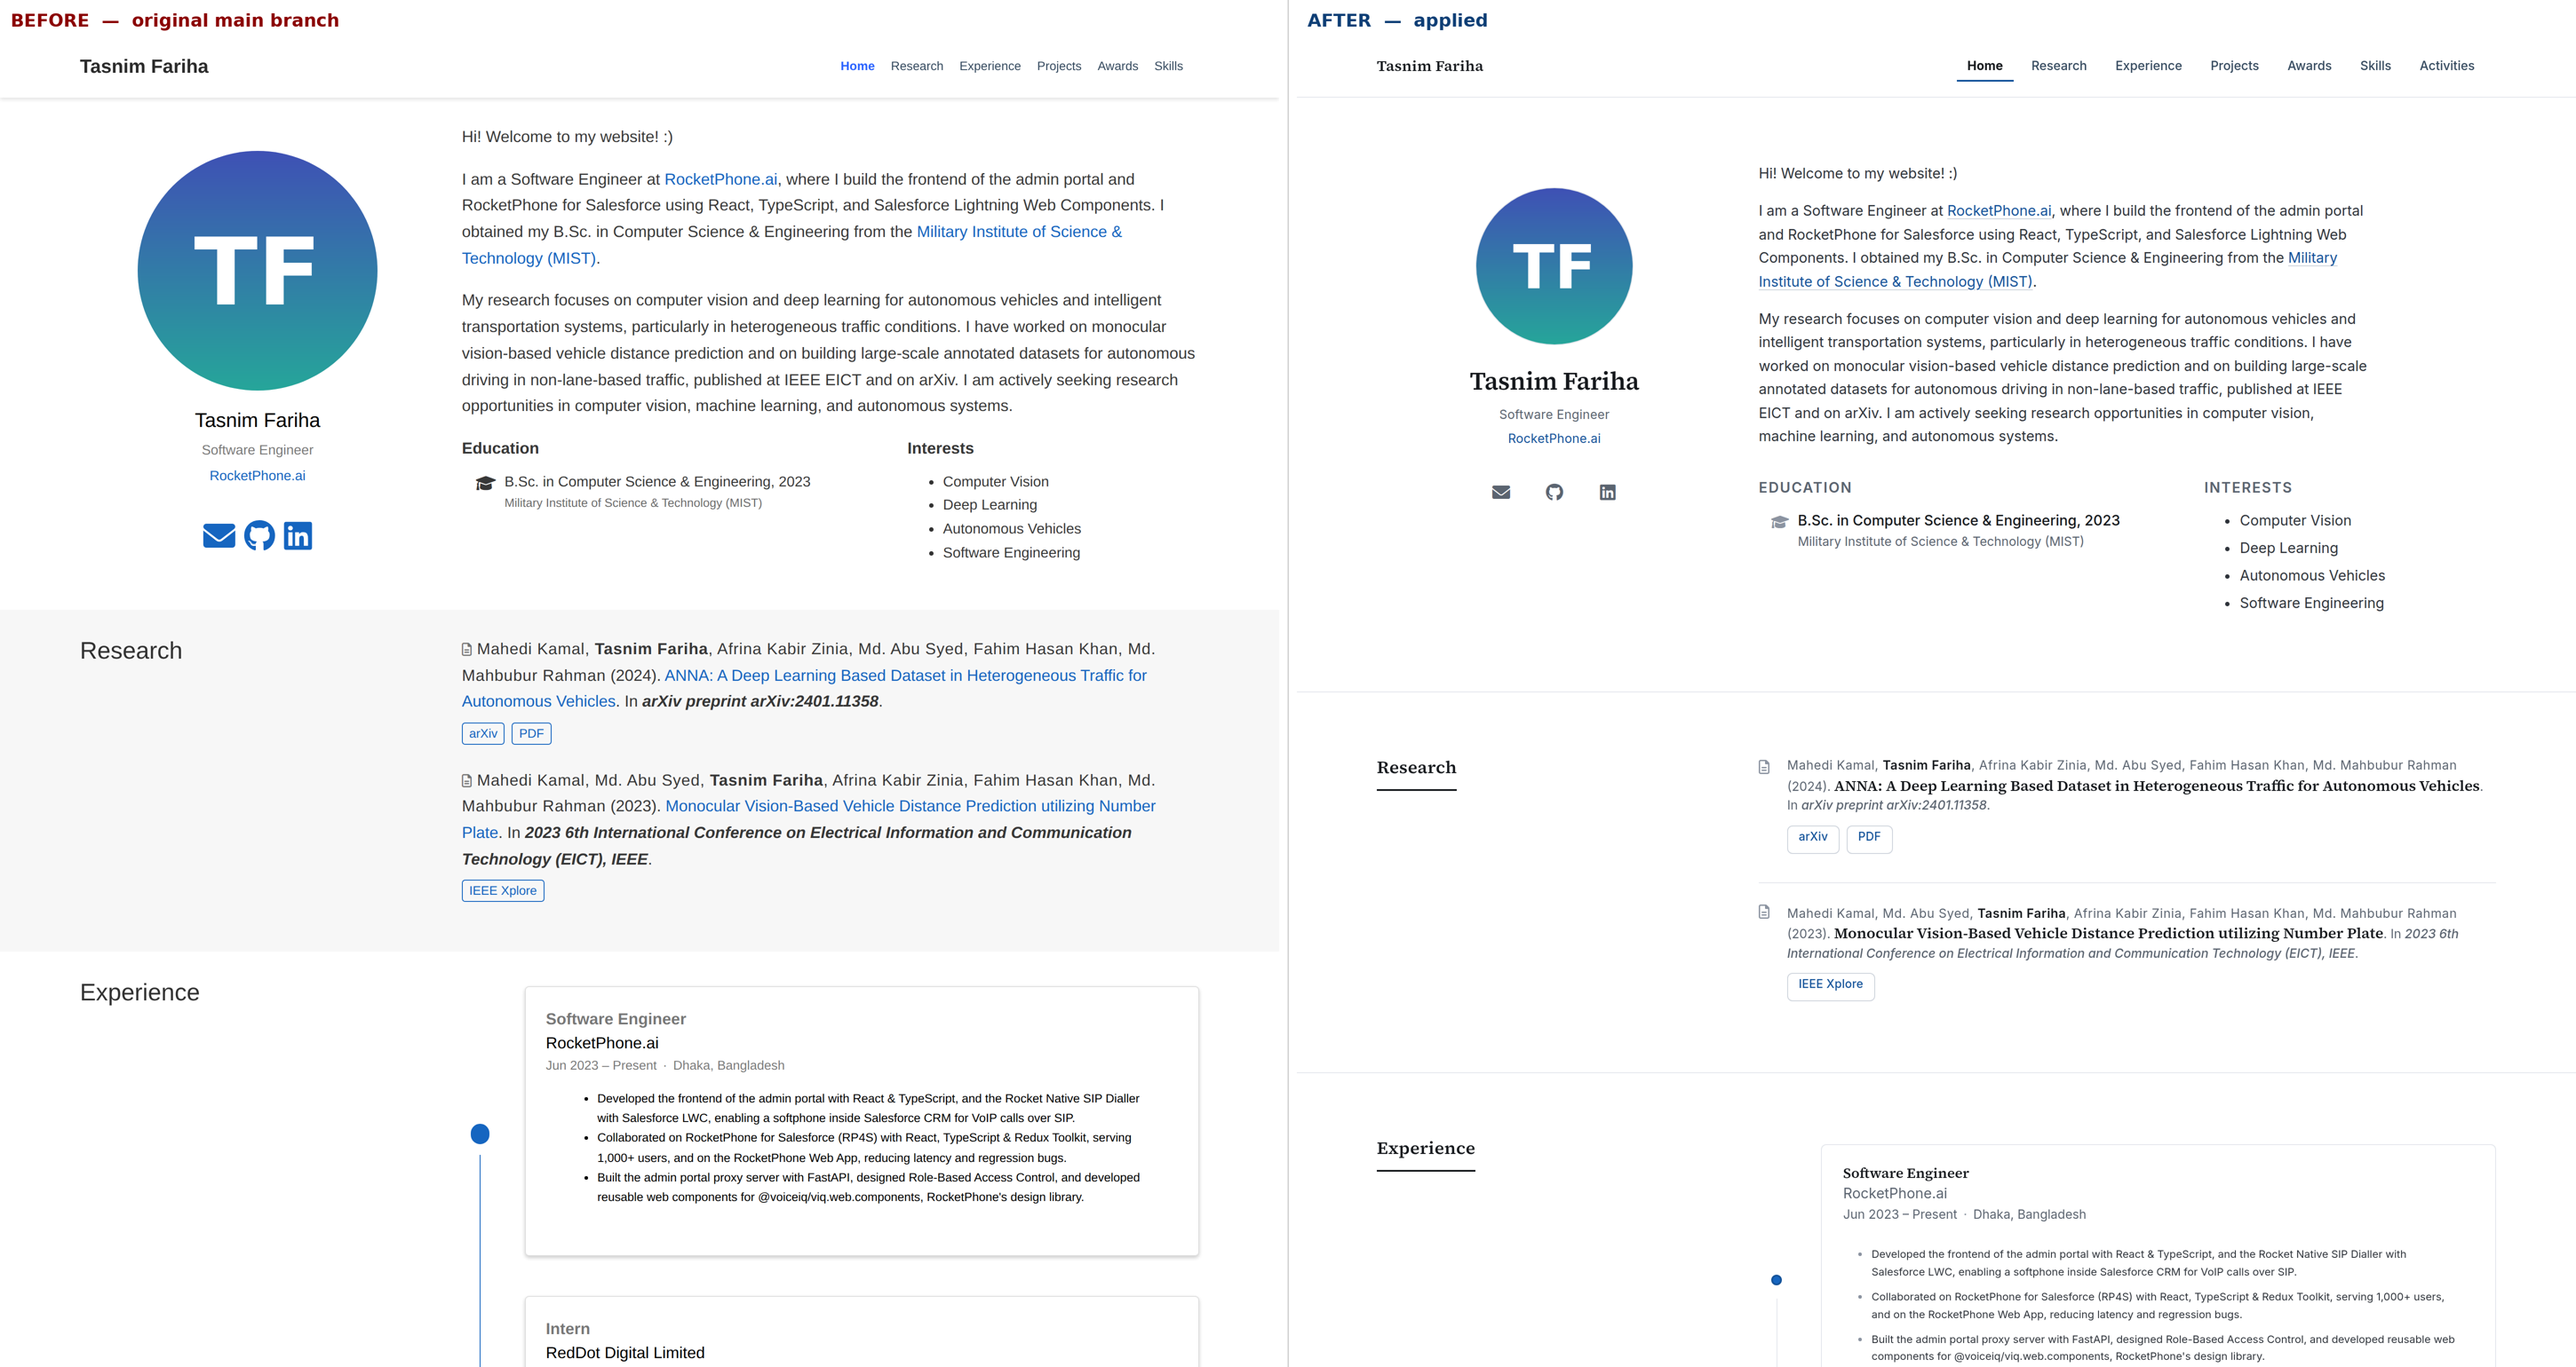
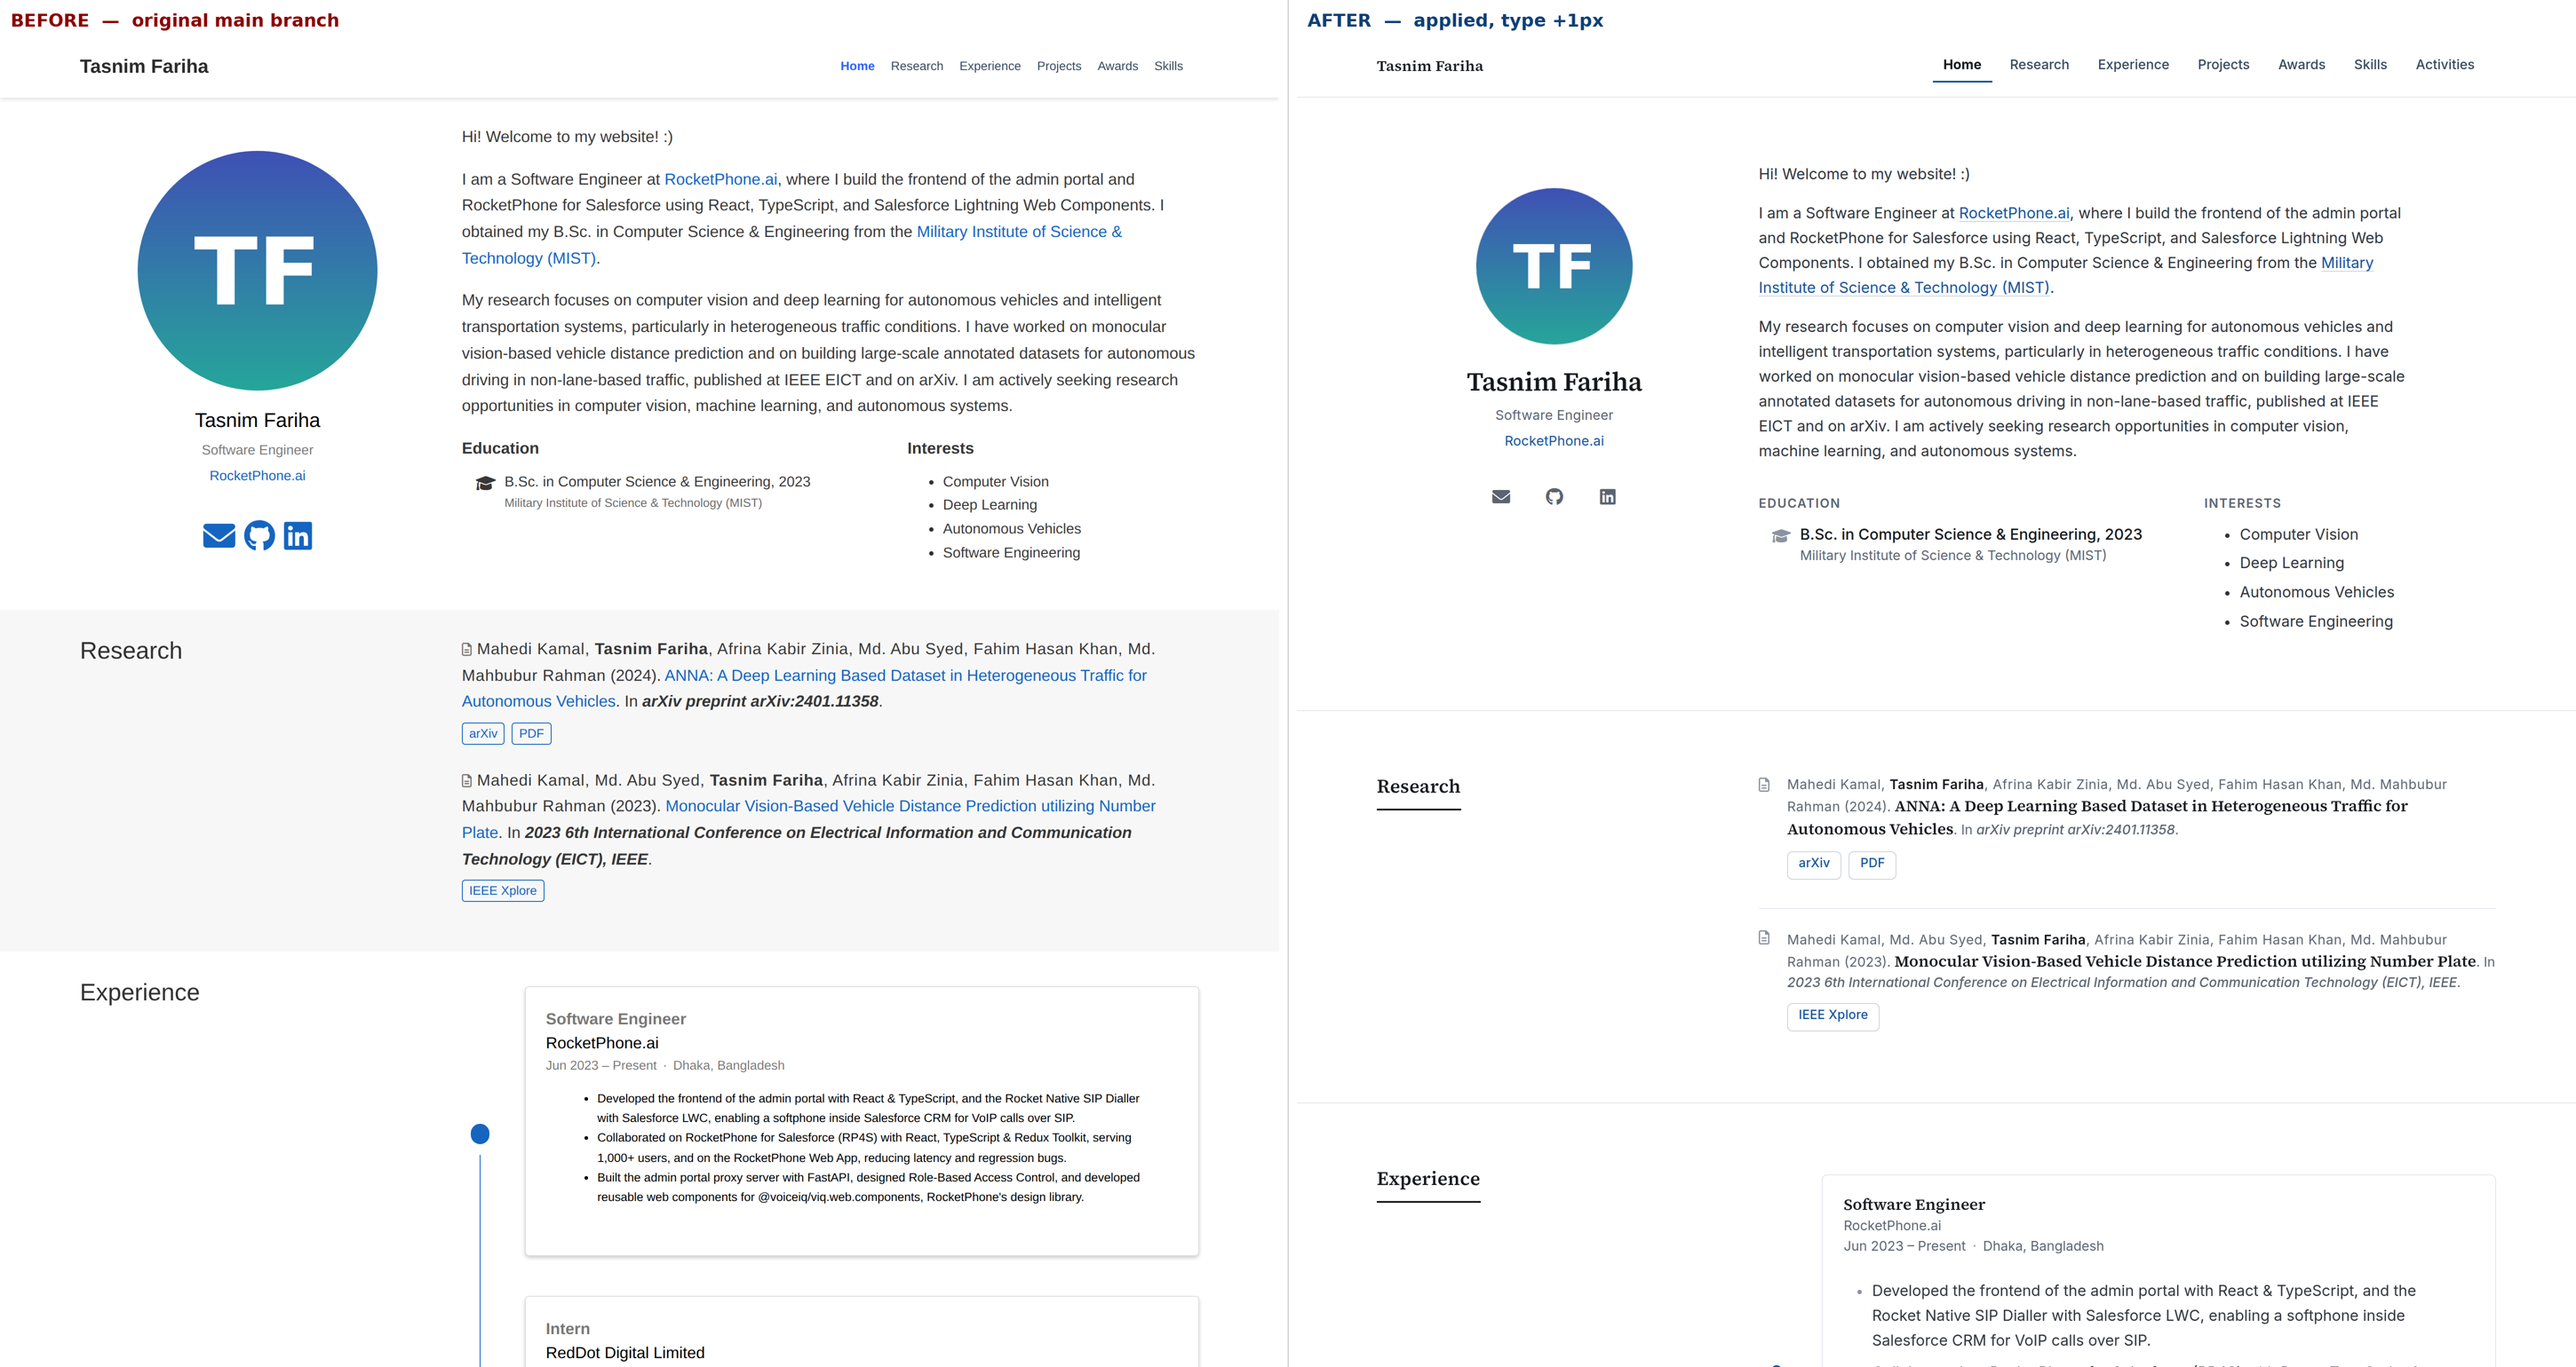
design: bump type scale +1px and unpin two theme font sizes
Every step of the scale goes up 1px: 13/14/16/17/20/28 -> 14/15/17/18/21/29.
Root stays at 16px.

While auditing every rendered size against the token table, two theme rules
turned out to be overriding the scale with !important:

- .section-subheading { font-size: 1rem !important } pinned all card titles
  and the EDUCATION/INTERESTS labels to 16px regardless of specificity.
- .experience .card-text, .experience .card-text p { font-size: .75rem
  !important } pinned all card body copy to 12px. Because the markup is
  .card.experience.course, this hit Projects and Awards as well as
  Experience -- so every experience bullet and project description was
  rendering at 12px, the smallest text on the page.

Card body copy is now 17px.

Verified: tsc -b and oxlint clean, axe 0 violations / 35 passes, all 16
sampled elements match the token table via getComputedStyle.

diff --git a/src/custom.css b/src/custom.css
@@ -99,13 +99,16 @@
   --font-sans: 'Inter Variable', 'Inter', -apple-system, BlinkMacSystemFont,
     'Segoe UI', Roboto, 'Helvetica Neue', Arial, sans-serif;
 
-  /* Type scale — 1.200 minor third, 16px base */
-  --text-xs: 0.8125rem;   /* 13px  — captions, badges            */
-  --text-sm: 0.875rem;    /* 14px  — metadata, timeline dates    */
-  --text-base: 1rem;      /* 16px  — body                        */
-  --text-md: 1.0625rem;   /* 17px  — card titles                 */
-  --text-lg: 1.25rem;     /* 20px  — section titles              */
-  --text-xl: 1.75rem;     /* 28px  — name                        */
+  /* Type scale — every step +1px over v1, root still 16px.
+     To nudge the whole page again later, change these six numbers; to scale
+     everything (including the px-based tokens further down) proportionally
+     instead, change `html { font-size }` below. */
+  --text-xs: 0.875rem;    /* 14px  — buttons, EDUCATION/INTERESTS labels */
+  --text-sm: 0.9375rem;   /* 15px  — metadata, dates, nav, citations     */
+  --text-base: 1.0625rem; /* 17px  — body copy                           */
+  --text-md: 1.125rem;    /* 18px  — card + publication titles           */
+  --text-lg: 1.3125rem;   /* 21px  — section titles                      */
+  --text-xl: 1.8125rem;   /* 29px  — name                                */
 
   --leading-tight: 1.25;
   --leading-snug: 1.45;
@@ -366,10 +369,13 @@ section[id] { scroll-margin-top: calc(var(--nav-h) + var(--space-4)); }
 
 .network-icon .big-icon { font-size: 1.25rem; }
 
-/* Education / Interests sub-blocks */
+/* Education / Interests sub-blocks.
+   The theme ships a bare `.section-subheading { font-size: 1rem !important }`,
+   which beats any non-important rule regardless of specificity — so every
+   size override on this class has to be !important too. */
 .section-subheading {
   font-family: var(--font-sans);
-  font-size: var(--text-xs);
+  font-size: var(--text-xs) !important; /* beats theme !important */
   font-weight: 600;
   letter-spacing: 0.08em;
   text-transform: uppercase;
@@ -481,7 +487,7 @@ ul.ul-interests li {
 .card .section-subheading,
 .card .section-subheading.exp-title {
   font-family: var(--font-serif);
-  font-size: var(--text-md);
+  font-size: var(--text-md) !important; /* beats theme !important */
   font-weight: 600;
   letter-spacing: 0;
   text-transform: none;
@@ -501,7 +507,7 @@ ul.ul-interests li {
 
 .card .section-subheading.exp-company {
   font-family: var(--font-sans);
-  font-size: var(--text-sm);
+  font-size: var(--text-sm) !important; /* beats theme !important */
   font-weight: 500;
   color: var(--ink-500) !important; /* beats .text-muted !important */
   margin: 0 0 var(--space-2);
@@ -521,6 +527,18 @@ ul.ul-interests li {
 }
 
 .card .card-text.article-style { margin-top: var(--space-3); }
+
+/* The theme pins card body copy to
+     .experience .card-text, .experience .card-text p { font-size: .75rem !important }
+   i.e. 12px — the smallest text on the page, and it's the actual substance of
+   every experience bullet and project description. `.card.experience.course`
+   means this hits Projects and Awards too. Back to body size. */
+.experience .card-text,
+.experience .card-text p,
+.experience .card-text li {
+  font-size: var(--text-base) !important; /* beats theme !important */
+  color: var(--ink-700) !important;       /* beats theme's color: #000 !important */
+}
 
 .card .card-text ul {
   padding-left: var(--space-4);

diff --git a/docs/design/design-handoff.md b/docs/design/design-handoff.md
@@ -10,7 +10,7 @@
 
 | File | Change | Lines |
 |---|---|---|
-| `src/custom.css` | The design layer — tokens, `@font-face`, overrides | +712 |
+| `src/custom.css` | The design layer — tokens, `@font-face`, overrides | +735 |
 | `index.html` | Dropped the Google Fonts request, preload the two first-paint faces, `theme-color` → `#14539a` | ±27 |
 | `public/fonts/*.woff2` | 5 vendored font files | new |
 | `src/App.tsx` | `<div className="page-body">` → `<main id="main">`; `Footer` moved outside it | ±6 |
@@ -67,12 +67,23 @@ Root is normalised to **16px** (`html { font-size: 16px }`) — the theme pins i
 
 | Token | Computed | Family | Weight | Applied to |
 |---|---|---|---|---|
-| `--text-xs` | 13px | sans | 500/600 | Buttons, `EDUCATION`/`INTERESTS` labels |
-| `--text-sm` | 14px | sans | 400/500 | Nav links, dates, company, citation authors, footer |
-| `--text-base` | 16px | sans | 400 | Body copy, bullets, interests |
-| `--text-md` | 17px | **serif** | 600 | Card titles, publication titles |
-| `--text-lg` | 20px | **serif** | 600 | Section titles |
-| `--text-xl` | 28px | **serif** | 600 | Name |
+| `--text-xs` | 14px | sans | 500/600 | Buttons, `EDUCATION`/`INTERESTS` labels |
+| `--text-sm` | 15px | sans | 400/500 | Nav links, dates, company, citation authors, footer |
+| `--text-base` | 17px | sans | 400 | Body copy, card bullets, interests |
+| `--text-md` | 18px | **serif** | 600 | Card titles, publication titles |
+| `--text-lg` | 21px | **serif** | 600 | Section titles |
+| `--text-xl` | 29px | **serif** | 600 | Name |
+
+To resize the page again, change these six numbers. Changing `html { font-size }` instead scales the px-based tokens (`--nav-h`, avatar, dot sizes) along with the type, which is usually not what you want.
+
+**The theme actively fights font-size overrides**, so several of these need `!important`:
+
+| Theme rule | Effect | Override |
+|---|---|---|
+| `.section-subheading { font-size: 1rem !important }` | Pinned every card title and the `EDUCATION`/`INTERESTS` labels to 16px regardless of specificity | `--text-md` / `--text-xs`, `!important` |
+| `.experience .card-text, .experience .card-text p { font-size: .75rem !important; color: #000 !important }` | **Pinned all card body copy to 12px** — experience bullets, project descriptions. `.card.experience.course` means it hit Projects and Awards too | `--text-base` + `--ink-700`, `!important` |
+
+That second one was the smallest text on the page and it carried the actual substance of every role and project.
 
 **Families**
 
@@ -85,7 +96,7 @@ The `<Name> Variable` names match the `@font-face` blocks; the plain names are k
 
 **Line height:** `--leading-tight: 1.25` (headings) · `--leading-snug: 1.45` (titles, metadata) · `--leading-body: 1.65` (prose)
 
-**Measure:** `--measure: 68ch` on top-level prose. Bio goes 830px / 83ch → 686px / 69ch at 1440px. Scoped to `#about .article-style > p` so it doesn't cap text already constrained by a card.
+**Measure:** `--measure: 68ch` on top-level prose. Bio goes 830px / 83ch → 729px / 66ch at 1440px (`ch` scales with font size, so the measure tracks the type). Scoped to `#about .article-style > p` so it doesn't cap text already constrained by a card.
 
 ### Spacing — 4px base
 
@@ -111,8 +122,8 @@ The `<Name> Variable` names match the `@font-face` blocks; the plain names are k
 ### Navbar
 
 - 64px min-height, `rgba(255,255,255,.92)` + `backdrop-filter: blur(8px)`, 1px `--rule` bottom border, no shadow
-- Brand: serif 17px/600 `--ink-900`
-- Link: sans 14px/500 `--ink-500`, 8px/12px padding, transparent 2px bottom border
+- Brand: serif 18px/600 `--ink-900`
+- Link: sans 15px/500 `--ink-500`, 8px/12px padding, transparent 2px bottom border
 - Hover: `--ink-900`
 - **Active: `--ink-900` + 2px `--accent` bottom border** — was colour-only
 - Focus-visible: 2px `--accent` outline, 2px offset
@@ -123,7 +134,7 @@ The `<Name> Variable` names match the `@font-face` blocks; the plain names are k
 
 - `--space-section` vertical padding, `!important` to beat the components' inline `style={{ padding: '30px 0 30px 0' }}`
 - Flat `--surface` throughout; `.home-section + .home-section` gets a 1px `--rule` top border. Replaces the alternating `#f7f7f7` bands — which is also what clears the two contrast failures, since `rgba(0,0,0,.54)` was compositing to 4.49:1 over grey
-- Title: serif 20px/600, `inline-block`, 12px bottom padding, **2px `--ink-900` underline**
+- Title: serif 21px/600, `inline-block`, 12px bottom padding, **2px `--ink-900` underline**
 - `position: sticky; top: 96px` at ≥992px — the title column is 400px wide and mostly empty, so it may as well hold the title in view while you read the section
 - Left-aligned at all widths (theme centred it below 992px)
 - `scroll-margin-top: 80px`
@@ -132,22 +143,22 @@ The `<Name> Variable` names match the `@font-face` blocks; the plain names are k
 
 - 1px `--rule` border, 6px radius, **no shadow**; border → `--rule-strong` on hover
 - Body padding `--space-card-y` / `--space-card-x`; 16px between cards
-- **Title: serif 17px/600 `--ink-900`** — the hierarchy fix. Needs `!important` to beat `.text-muted { color: rgba(0,0,0,.54) !important }`
-- Company: sans 14px/500 `--ink-500`
-- Meta: sans 14px/400 `--ink-500`
-- Body: sans 16px/400 `--ink-700`, 1.65; markers `--ink-300`
+- **Title: serif 18px/600 `--ink-900`** — the hierarchy fix. Needs `!important` to beat `.text-muted { color: rgba(0,0,0,.54) !important }`
+- Company: sans 15px/500 `--ink-500`
+- Meta: sans 15px/400 `--ink-500`
+- Body: sans 17px/400 `--ink-700`, 1.65; markers `--ink-300`. Was 12px, pinned by a theme `!important`
 
 ### Publication list item
 
 - Hairline-separated rows, 24px vertical padding, 32px left indent for the icon; first item flush top, last has no rule
 - Icon absolutely positioned, `--ink-300`
-- **Title: serif 17px/600 `--ink-900`, no resting underline.** Underline appears on hover/focus. It's set apart from the surrounding sans citation by typeface, size, weight *and* colour, so it isn't signalled by colour alone (WCAG 1.4.1)
-- Authors: sans 14px `--ink-500`; your name `600` + `--ink-900`
+- **Title: serif 18px/600 `--ink-900`, no resting underline.** Underline appears on hover/focus. It's set apart from the surrounding sans citation by typeface, size, weight *and* colour, so it isn't signalled by colour alone (WCAG 1.4.1)
+- Authors: sans 15px `--ink-500`; your name `600` + `--ink-900`
 - Venue: `--ink-500`, italic, `font-weight: 500` — was `<em><strong>`, i.e. italic + bold + serif for one field
 
 ### Button (`.btn-page-header`)
 
-- sans 13px/500 `--accent`, transparent fill, 1px `--rule-strong` border, 6px radius
+- sans 14px/500 `--accent`, transparent fill, 1px `--rule-strong` border, 6px radius
 - 6px/12px padding, **32px min-height** (was 25px)
 - Hover: `--accent-wash` fill, `--accent` border, `--accent-hover` text
 - `@media (pointer: coarse)`: **44px min-height**, 10px/16px padding
@@ -175,7 +186,7 @@ The `<Name> Variable` names match the `@font-face` blocks; the plain names are k
 
 ### Footer
 
-- 1px `--rule` top border, 32px padding, centred, sans 14px `--ink-500`
+- 1px `--rule` top border, 32px padding, centred, sans 15px `--ink-500`
 
 ---
 
@@ -292,13 +303,14 @@ social: [
 |---|---|
 | `tsc -b` | ✅ clean |
 | `oxlint` | ✅ clean, exit 0 |
-| `npm run build` | ✅ CSS 12.1 kB → 3.0 kB gzipped |
+| `npm run build` | ✅ CSS 12.9 kB → 3.1 kB gzipped |
 | axe-core WCAG 2.1 A/AA + best-practice | ✅ **0 violations, 35 passes** (was 3 violations) |
 | Heading outline | ✅ `h1: Tasnim Fariha` → six `h2` section titles (was six `h1`, no page title) |
 | Contrast, all 8 text tokens | ✅ AA; 6 of 8 also AAA |
 | Font loading | ✅ `Inter Variable` + `Source Serif 4 Variable` resolve; **0 requests to fonts.googleapis.com**; `latin-ext` faces correctly not fetched |
 | Touch targets | Buttons 25→32px (44px coarse), social links 20→44px, nav toggler 44×44 |
-| Measure | 83ch → 69ch at 1440px |
+| Measure | 83ch → 66ch at 1440px |
+| Every rendered font size | ✅ audited via `getComputedStyle` against the token table — 16 elements checked |
 | Keyboard focus | ✅ 2px `#14539a` ring on tab, verified on nav links |
 | Scroll-spy | ✅ highlights `Activities` at `#activities` |
 | Nav drawer at 390px | ✅ 7 items, left-border active marker |
